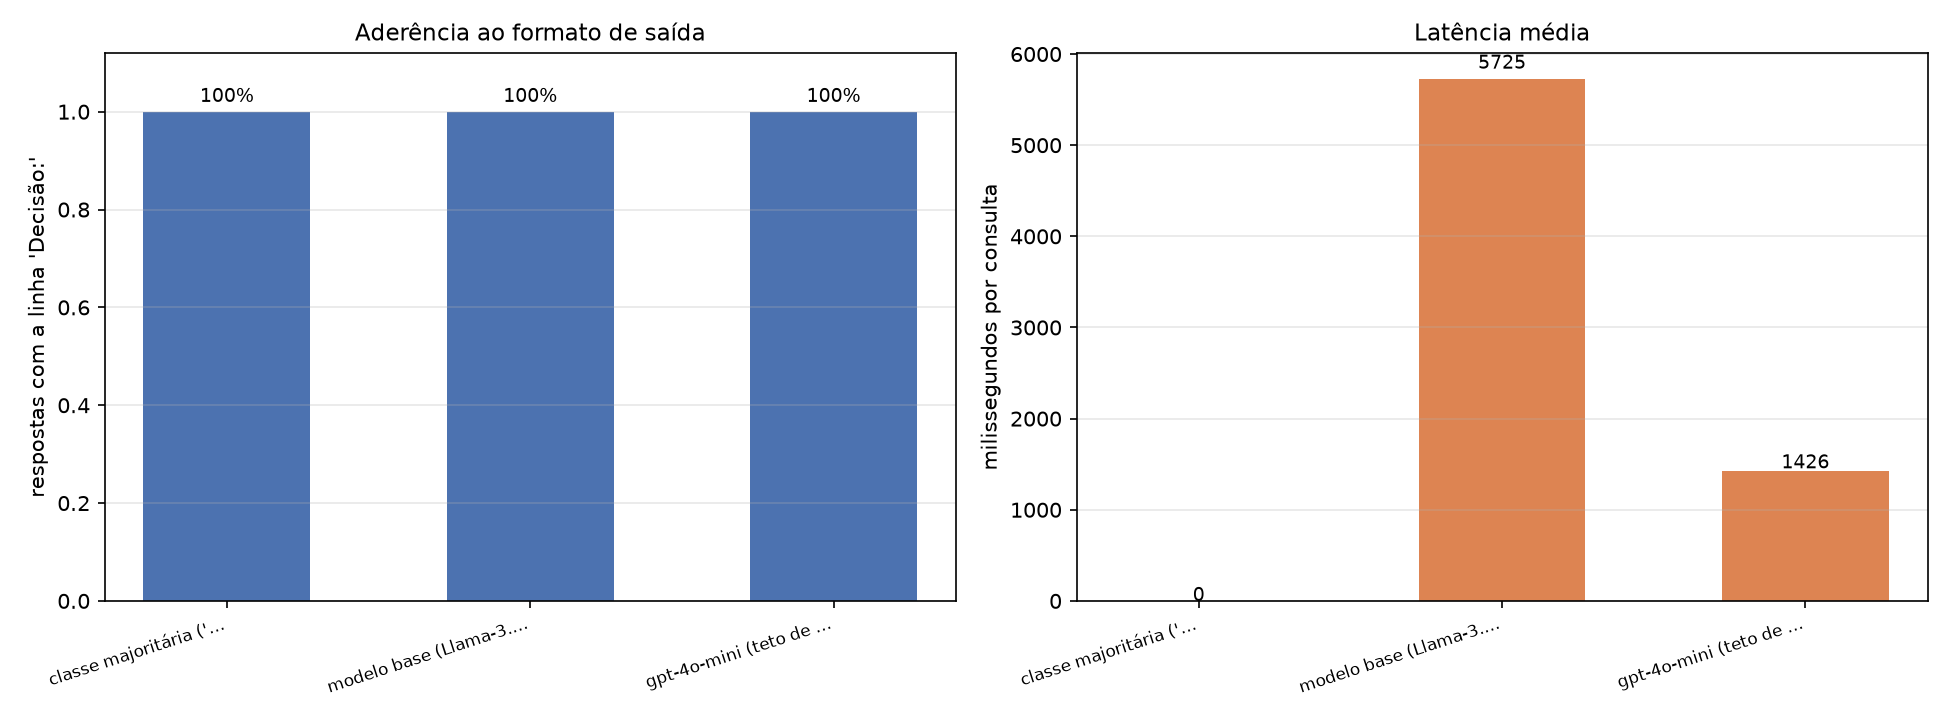
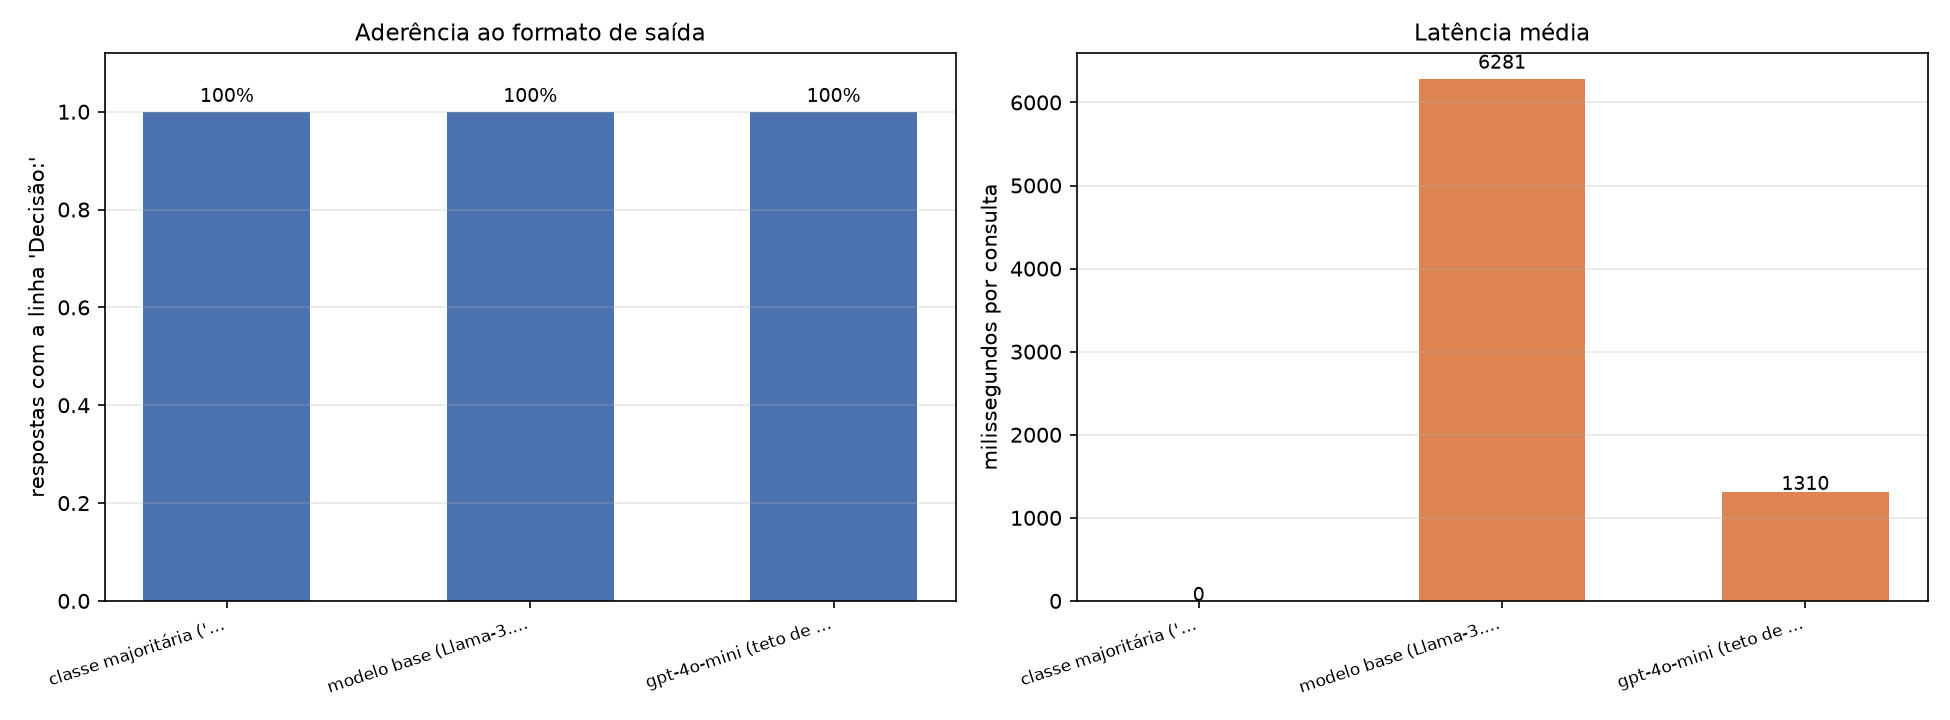
docs(avaliação): pipeline completo verificado e achado sobre reprodutibilidade
Verificação do `make tudo`
- O comando que o README oferece para rodar o pipeline inteiro foi executado de
  ponta a ponta pela primeira vez: sete etapas, do download aos documentos, sem
  nenhum erro. Era o último caminho documentado que eu só tinha conferido em dry
  run — e é justamente o que permitiu descobrir, antes, que ele chamava um
  script inexistente.

Achado não previsto: reprodutibilidade
- A reexecução com a mesma amostra e temperatura 0,0 mostrou que o modelo local
  devolve EXATAMENTE os mesmos números nas duas execuções, enquanto o
  gpt-4o-mini varia (0,720/0,617 contra 0,710/0,605).
- A variação da API é pequena e esperada: temperatura zero não garante
  determinismo em infraestrutura distribuída, com balanceamento entre réplicas e
  otimizações de lote.
- Mas a diferença importa aqui. Um assistente clínico auditável precisa poder
  responder "por que o sistema disse isso naquele dia?". Com o modelo local, a
  resposta é reconstruível: mesmos pesos, mesmo prompt, mesma saída. Com a API,
  a reconstrução é aproximada.
- É mais um argumento, ao lado do custo e da privacidade, para a LLM customizada
  rodar localmente — e não estava no projeto original: apareceu por ter rodado a
  mesma coisa duas vezes.

Resultados e gráficos regenerados pela execução completa.

diff --git a/docs/relatorio_tecnico.md b/docs/relatorio_tecnico.md
@@ -459,8 +459,8 @@ Conjunto de teste: **150 casos** de 500 disponíveis · distribuição `{'yes': 
 | Sistema | N | Accuracy | Macro-F1 | F1 yes | F1 no | F1 maybe | Formato | Latência |
 | --- | ---: | ---: | ---: | ---: | ---: | ---: | ---: | ---: |
 | classe majoritária ('yes') | 150 | 0.533 | **0.232** | 0.696 | 0.000 | 0.000 | 100% | 0 ms |
-| modelo base (Llama-3.2-3B) | 150 | 0.680 | **0.477** | 0.764 | 0.667 | 0.000 | 100% | 5,725 ms |
-| gpt-4o-mini (teto de referência) | 100 | 0.720 | **0.617** | 0.844 | 0.772 | 0.235 | 100% | 1,426 ms |
+| modelo base (Llama-3.2-3B) | 150 | 0.680 | **0.477** | 0.764 | 0.667 | 0.000 | 100% | 6,281 ms |
+| gpt-4o-mini (teto de referência) | 100 | 0.710 | **0.605** | 0.844 | 0.737 | 0.235 | 100% | 1,310 ms |
 
 Referência externa: especialistas humanos alcançam **78%** neste mesmo conjunto (Jin et al., 2019 — artigo original do PubMedQA).
 
@@ -478,9 +478,9 @@ Delata o modelo que colapsou numa única classe — o modo de falha mais comum e
 
 | Modelo | Chamadas | Tokens entrada | Tokens saída | Custo |
 | --- | ---: | ---: | ---: | ---: |
-| `gpt-4o-mini` | 100 | 91,274 | 9,141 | US$ 0.019176 |
+| `gpt-4o-mini` | 100 | 91,274 | 9,145 | US$ 0.019178 |
 | `medgraph-base` | 150 | 158,437 | 14,784 | US$ 0.000000 |
-| **Total** | | | | **US$ 0.019176** |
+| **Total** | | | | **US$ 0.019178** |
 
 O modelo local aparece com custo zero e o volume processado registrado — é o que permite comparar o custo por consulta entre o modelo servido localmente e a API paga.
 
@@ -501,6 +501,30 @@ cem vezes maior, executado em nuvem paga, diz mais do que o número absoluto.
 **Custo por consulta.** O modelo local processa o mesmo volume com custo
 financeiro zero. A tabela de custo registra ambos justamente para tornar essa
 comparação explícita.
+
+**Reprodutibilidade — um resultado que não estava previsto.** O pipeline completo
+foi executado duas vezes, com a mesma amostra e temperatura 0,0 em todos os
+sistemas. O modelo local devolveu **exatamente os mesmos números** nas duas
+execuções; o `gpt-4o-mini` variou:
+
+| Sistema | 1ª execução | 2ª execução |
+| --- | --- | --- |
+| Classe majoritária | 0,533 / 0,232 | 0,533 / 0,232 |
+| **Modelo local (Ollama)** | **0,680 / 0,477** | **0,680 / 0,477** |
+| `gpt-4o-mini` (API) | 0,720 / 0,617 | 0,710 / 0,605 |
+
+*(accuracy / macro-F1)*
+
+A variação da API é pequena e esperada — temperatura zero não garante determinismo
+em infraestrutura distribuída, com balanceamento entre réplicas e otimizações de
+lote. Mas a diferença importa no contexto deste projeto.
+
+Um assistente clínico auditável precisa poder responder à pergunta *"por que o
+sistema disse isso naquele dia?"*. Com o modelo servido localmente, a resposta é
+reconstruível: mesmos pesos, mesmo prompt, mesma saída. Com a API, a
+reconstrução é aproximada. Isso não invalida o uso da API como teto de
+referência — mas é mais um argumento, ao lado do custo e da privacidade, para a
+LLM customizada rodar localmente.
 
 **A lacuna que o fine-tuning existe para fechar.** O resultado mais informativo
 desta avaliação não é a accuracy do modelo base — é a sua **distribuição de
@@ -735,7 +759,7 @@ varrendo as tags `[REQ-xx]` das docstrings.
 ### Suíte de testes
 
 ```
-======================== 156 passed, 1 warning in 2.24s ========================
+======================== 168 passed, 1 warning in 3.34s ========================
 ```
 
 ---

diff --git a/docs/rastreabilidade.md b/docs/rastreabilidade.md
@@ -88,7 +88,7 @@ São itens previstos para etapas seguintes do projeto.
 
 | Arquivo | Linha | Contexto |
 | --- | ---: | --- |
-| `config/settings.py` | 227 | """Base SQLite com os prontuarios estruturados. [REQ-2a]""" |
+| `config/settings.py` | 231 | """Base SQLite com os prontuarios estruturados. [REQ-2a]""" |
 | `scripts/demo_fundacao.py` | 88 | """Simula a leitura da base estruturada de pacientes. [REQ-2a]""" |
 | `src/medgraph/__init__.py` | 24 | prontuario/       acesso a base estruturada de pacientes      [REQ-2a] |
 | `src/medgraph/auditoria.py` | 100 | BANCO = "banco"                # consulta ao prontuario            [REQ-2a] |
@@ -122,7 +122,7 @@ São itens previstos para etapas seguintes do projeto.
 | `config/politicas.yaml` | 2 | [REQ-3a] POLITICAS DE ATUACAO DO ASSISTENTE MEDGRAPH |
 | `config/politicas.yaml` | 128 | [REQ-3a] Nenhuma posologia sai sem marcacao explicita de revisao humana. |
 | `config/settings.py` | 116 | 4) COMPORTAMENTO DO GRAFO  [REQ-3a] |
-| `config/settings.py` | 284 | """Regras declarativas de guardrail. [REQ-3a]""" |
+| `config/settings.py` | 288 | """Regras declarativas de guardrail. [REQ-3a]""" |
 | `scripts/03_instalar_modelo.py` | 101 | PROMPT DE SISTEMA — limites de atuação do assistente  [REQ-3a] |
 | `scripts/demo_fundacao.py` | 75 | """Simula a verificacao de escopo e a anonimizacao da pergunta. [REQ-3a]""" |
 | `scripts/demo_fundacao.py` | 128 | """Simula a validacao da resposta antes da entrega. [REQ-3a][REQ-3c]""" |
@@ -163,9 +163,9 @@ São itens previstos para etapas seguintes do projeto.
 | --- | ---: | --- |
 | `config/settings.py` | 95 | 2) CONTROLE DE CUSTO  [REQ-3b] |
 | `config/settings.py` | 122 | 5) LOGGING E AUDITORIA  [REQ-3b] |
-| `config/settings.py` | 238 | """Trilha de auditoria em JSONL, um arquivo por dia. [REQ-3b]""" |
-| `config/settings.py` | 244 | """Trace completo de cada consulta, um JSON por trace_id. [REQ-3b]""" |
-| `config/settings.py` | 330 | disco. [REQ-3b] |
+| `config/settings.py` | 242 | """Trilha de auditoria em JSONL, um arquivo por dia. [REQ-3b]""" |
+| `config/settings.py` | 248 | """Trace completo de cada consulta, um JSON por trace_id. [REQ-3b]""" |
+| `config/settings.py` | 334 | disco. [REQ-3b] |
 | `src/medgraph/__init__.py` | 17 | logging_config.py logging em tres destinos                    [REQ-3b] |
 | `src/medgraph/__init__.py` | 18 | auditoria.py      trilha de auditoria e trace por consulta    [REQ-3b] |
 | `src/medgraph/auditoria.py` | 2 | [REQ-3b] Trilha de auditoria do MedGraph. |

diff --git a/docs/relatorio_base.md b/docs/relatorio_base.md
@@ -412,6 +412,30 @@ cem vezes maior, executado em nuvem paga, diz mais do que o número absoluto.
 financeiro zero. A tabela de custo registra ambos justamente para tornar essa
 comparação explícita.
 
+**Reprodutibilidade — um resultado que não estava previsto.** O pipeline completo
+foi executado duas vezes, com a mesma amostra e temperatura 0,0 em todos os
+sistemas. O modelo local devolveu **exatamente os mesmos números** nas duas
+execuções; o `gpt-4o-mini` variou:
+
+| Sistema | 1ª execução | 2ª execução |
+| --- | --- | --- |
+| Classe majoritária | 0,533 / 0,232 | 0,533 / 0,232 |
+| **Modelo local (Ollama)** | **0,680 / 0,477** | **0,680 / 0,477** |
+| `gpt-4o-mini` (API) | 0,720 / 0,617 | 0,710 / 0,605 |
+
+*(accuracy / macro-F1)*
+
+A variação da API é pequena e esperada — temperatura zero não garante determinismo
+em infraestrutura distribuída, com balanceamento entre réplicas e otimizações de
+lote. Mas a diferença importa no contexto deste projeto.
+
+Um assistente clínico auditável precisa poder responder à pergunta *"por que o
+sistema disse isso naquele dia?"*. Com o modelo servido localmente, a resposta é
+reconstruível: mesmos pesos, mesmo prompt, mesma saída. Com a API, a
+reconstrução é aproximada. Isso não invalida o uso da API como teto de
+referência — mas é mais um argumento, ao lado do custo e da privacidade, para a
+LLM customizada rodar localmente.
+
 **A lacuna que o fine-tuning existe para fechar.** O resultado mais informativo
 desta avaliação não é a accuracy do modelo base — é a sua **distribuição de
 previsões**: ele responde apenas `yes` e `no`, e **nunca** `maybe`. O F1 dessa
